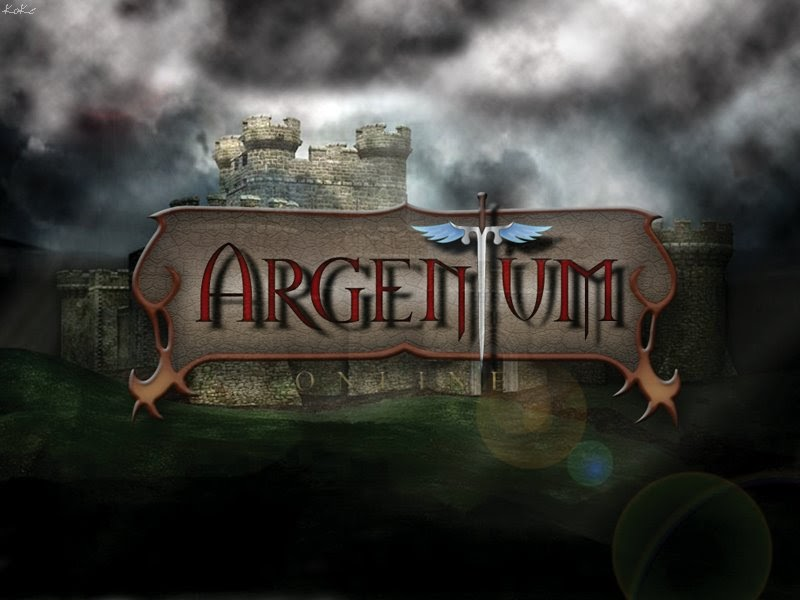
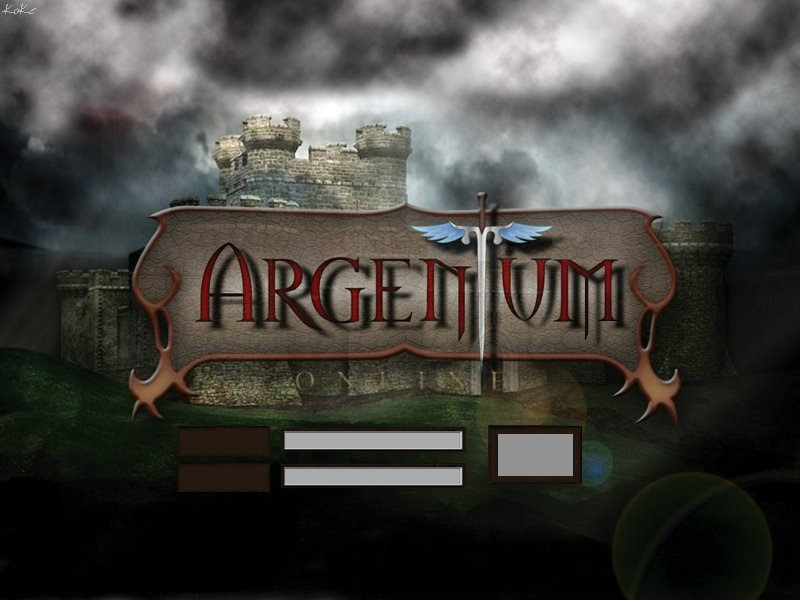
Inclusion de Lobby y WindowGame

Changed region(s): [[0.2188, 0.69, 0.75, 0.84], [0.3125, 0.69, 0.3438, 0.72]]

diff --git a/client/window_game.cpp b/client/window_game.cpp
@@ -1,0 +1,55 @@
+#include "window_game.h"
+
+WindowGame::WindowGame() {
+  screen_width = 800;
+  screen_height = 600;
+  window_init();
+}
+
+WindowGame::~WindowGame() {
+  if (renderer) {
+    SDL_DestroyRenderer(renderer);
+    renderer = nullptr;
+  }
+  if (window) {
+    SDL_DestroyWindow(window);
+    window = nullptr;
+  }
+  IMG_Quit();
+  SDL_Quit();
+  Mix_Quit();
+  TTF_Quit();
+}
+
+void WindowGame::window_init() {
+  window = SDL_CreateWindow("Argentum Online", SDL_WINDOWPOS_UNDEFINED,
+                            SDL_WINDOWPOS_UNDEFINED, screen_width,
+                            screen_height, SDL_WINDOW_SHOWN);
+
+  if (!window) {
+    throw SdlException(MSG_ERROR_SDL_INIT_WINDOW, SDL_GetError());
+  } else {
+    renderer = SDL_CreateRenderer(window, -1, SDL_RENDERER_ACCELERATED);
+    if (!renderer) {
+      throw SdlException(MSG_ERROR_SDL_INIT_RENDERER, SDL_GetError());
+    } else {
+      // Fondo negro
+      SDL_SetRenderDrawColor(renderer, 0, 0, 0, 0xFF);
+
+      // Initialize PNG loading
+      int imgFlags = IMG_INIT_PNG;
+      if (!(IMG_Init(imgFlags) & imgFlags))
+        throw SdlException(MSG_ERROR_SDL_IMG_INIT, IMG_GetError());
+
+      // Inicializamos el mixer de audio
+      if (Mix_OpenAudio(22050, MIX_DEFAULT_FORMAT, 2, 2048) < 0)
+        throw SdlException(MSG_ERROR_SDL_MIXER_INIT, Mix_GetError());
+
+      // Inicializamos TTF
+      if (TTF_Init() == -1)
+        throw SdlException(MSG_ERROR_SDL_TTF_INIT, TTF_GetError());
+    }
+  }
+}
+
+SDL_Renderer* WindowGame::get_renderer() { return renderer; }

diff --git a/client/window_game.h b/client/window_game.h
@@ -1,0 +1,25 @@
+#ifndef WINDOW_GAME_H
+#define WINDOW_GAME_H
+
+#include <SDL2/SDL.h>
+#include <SDL2/SDL_mixer.h>
+#include <SDL2/SDL_ttf.h>
+
+#include "sdl_exception.h"
+#include "texture.h"
+
+class WindowGame {
+ private:
+  SDL_Window* window;
+  SDL_Renderer* renderer;
+  int screen_width;
+  int screen_height;
+
+ public:
+  WindowGame();
+  ~WindowGame();
+  void window_init();
+  SDL_Renderer* get_renderer();
+};
+
+#endif

diff --git a/client/lobby.h b/client/lobby.h
@@ -1,0 +1,20 @@
+#ifndef LOBBY_H
+#define LOBBY_H
+
+#include <SDL2/SDL.h>
+
+#include "texture.h"
+
+class Lobby {
+ private:
+  Texture log_in;
+  Texture character_selection;
+  SDL_Renderer* renderer;
+
+ public:
+  Lobby(SDL_Renderer*);
+  ~Lobby();
+  void start_lobby();
+};
+
+#endif

diff --git a/client/lobby.cpp b/client/lobby.cpp
@@ -1,0 +1,14 @@
+#include "lobby.h"
+
+Lobby::Lobby(SDL_Renderer* ren) : renderer(ren) {
+  log_in = Texture("log_in.png", renderer);
+  character_selection = Texture("log_in.png", renderer);
+}
+
+Lobby::~Lobby() {}
+
+void start_lobby() {
+
+ 
+
+}
